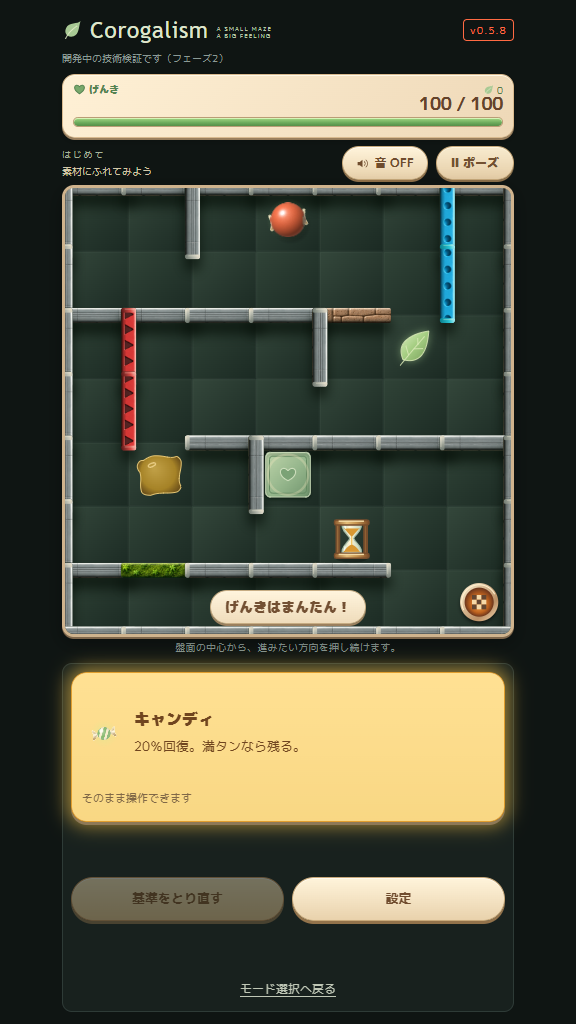
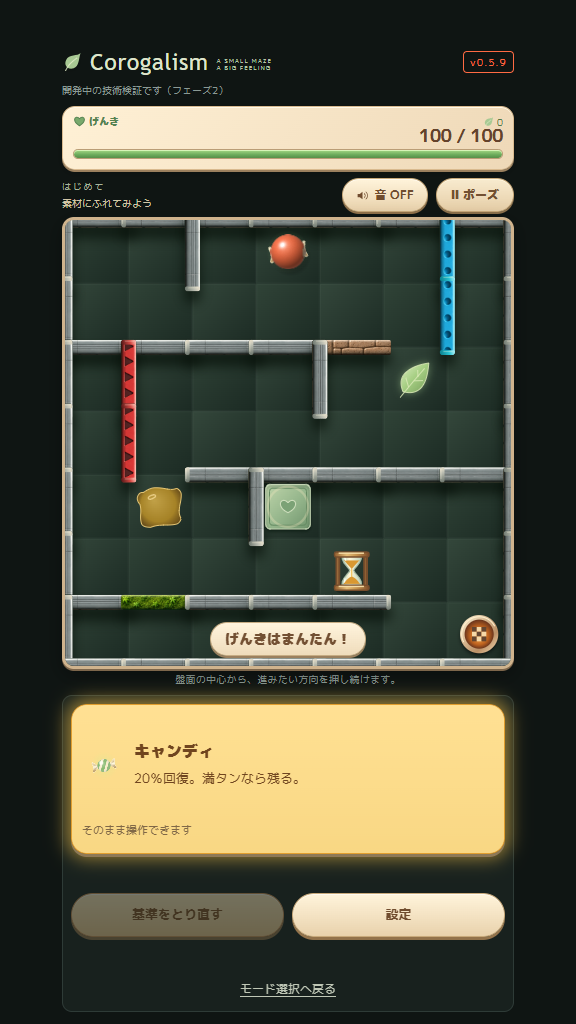
fix(T-256): reserve camera clearance in fullscreen

diff --git a/floor-lab.css b/floor-lab.css
@@ -2,3 +2,9 @@
 *{box-sizing:border-box}body{margin:0;background:#f5eedf;color:#44382c;font-family:Lab,system-ui,sans-serif}main{max-width:576px;margin:auto;padding:16px}header{display:flex;justify-content:space-between;gap:8px;font-size:12px}a{color:#38664e}h1{font-size:26px;margin:14px 0 4px}.intro,footer,.note{font-size:12px;line-height:1.7}nav,.buttons{display:flex;gap:6px;flex-wrap:wrap}button{font:inherit;font-size:13px;padding:10px 12px;min-height:42px;border:1px solid #b9aa90;border-radius:12px;background:#fffaf0;color:inherit;cursor:pointer}button[aria-pressed=true]{background:#395e4c;color:white;border-color:#395e4c}button:disabled{opacity:.45}button:focus-visible,a:focus-visible,input:focus-visible{outline:3px solid #3b897b;outline-offset:2px}#hint{font-size:13px;min-height:42px;line-height:1.6;margin:10px 0}.board{width:min(100%,56svh);margin:auto;aspect-ratio:1;border:7px solid #b18e68;border-radius:18px;overflow:hidden;background:#fff7e7;box-shadow:0 6px 0 #dbc7aa}canvas{display:block;width:100%;height:100%;touch-action:none}#status{font-size:12px;min-height:36px;line-height:1.5}.buttons{margin:9px 0}details{background:#fffbf4;border:1px solid #ddcfb9;border-radius:14px;padding:12px;margin-top:16px}summary{cursor:pointer;font-weight:bold}label{display:block;font-size:13px;margin-top:12px}output{float:right;font-variant-numeric:tabular-nums}input[type=range]{display:block;width:100%;accent-color:#47775f;margin:8px 0}textarea{width:100%;min-height:120px;font-size:12px}footer{margin-top:18px;color:#716553}#copy-status{font-size:12px}@media(prefers-reduced-motion:reduce){*{scroll-behavior:auto}}
 
 [hidden]{display:none!important}
+
+/* T-256: 本編と同じカメラ回避余白。全画面解除時は通常の余白へ戻る。 */
+:root{--camera-top:env(safe-area-inset-top,0px)}
+:root:fullscreen{--camera-top:max(32px,env(safe-area-inset-top,0px))}
+@media(display-mode:fullscreen){:root{--camera-top:max(32px,env(safe-area-inset-top,0px))}}
+main{padding-top:calc(16px + var(--camera-top));padding-left:calc(16px + env(safe-area-inset-left,0px));padding-right:calc(16px + env(safe-area-inset-right,0px));padding-bottom:calc(16px + env(safe-area-inset-bottom,0px))}

diff --git a/style.css b/style.css
@@ -26,7 +26,7 @@ h2{margin:0 0 4px;font-size:14px;font-weight:700;display:flex;align-items:center
 .badge{font-family:var(--mono);font-size:10px;letter-spacing:.12em;color:var(--accent);
   border:1px solid var(--accent);border-radius:4px;padding:2px 6px;white-space:nowrap}
 
-.board{position:relative;width:min(100%, max(200px, calc(100svh - 340px)));aspect-ratio:1/1;align-self:center;background:#0B100F;
+.board{position:relative;width:min(100%, max(calc(200px - var(--camera-top)), calc(100svh - 340px - var(--camera-top))));aspect-ratio:1/1;align-self:center;background:#0B100F;
   border:1px solid var(--line);border-radius:10px;overflow:hidden;touch-action:none;
   user-select:none;-webkit-user-select:none}
 .board canvas{display:block}
@@ -477,3 +477,12 @@ body[data-game-mode="tutorial"] #game-status{display:none}
 @media (prefers-reduced-motion: reduce){
  .tutorial-lesson.is-updated{border-color:#e79a19;box-shadow:0 3px #8e7957, inset 0 0 0 150px #ffd15a80}
 }
+
+/* T-256: 全画面では時計バー相当を予約。端末通知が大きければそちらを優先する。 */
+:root{--camera-top:env(safe-area-inset-top,0px)}
+:root:fullscreen{--camera-top:max(32px,env(safe-area-inset-top,0px))}
+@media(display-mode:fullscreen){:root{--camera-top:max(32px,env(safe-area-inset-top,0px))}}
+.wrap{padding-top:calc(14px + var(--camera-top));padding-left:calc(14px + env(safe-area-inset-left,0px));padding-right:calc(14px + env(safe-area-inset-right,0px))}
+.play-guide{top:var(--camera-top);bottom:env(safe-area-inset-bottom,0px);max-height:calc(100dvh - 28px - var(--camera-top) - env(safe-area-inset-bottom,0px))}
+
+@media(max-width:360px){.wrap{padding-left:calc(10px + env(safe-area-inset-left,0px));padding-right:calc(10px + env(safe-area-inset-right,0px))}}

diff --git a/floor-lab.html b/floor-lab.html
@@ -1,7 +1,7 @@
 <!doctype html>
 <html lang="ja">
 <head>
-  <meta charset="utf-8"><meta name="viewport" content="width=device-width,initial-scale=1">
+  <meta charset="utf-8"><meta name="viewport" content="width=device-width,initial-scale=1,viewport-fit=cover">
   <meta name="robots" content="noindex,nofollow">
   <link rel="manifest" href="manifest.webmanifest">
   <title>床のおためし | コロガリズム</title>

diff --git a/index.html b/index.html
@@ -23,7 +23,7 @@
         <span class="brand-word">Corogalism</span>
       </h1>
       <p class="brand-tagline">A SMALL MAZE<br>A BIG FEELING</p>
-      <span class="badge">v0.5.8</span>
+      <span class="badge">v0.5.9</span>
       </div>
       <p class="sub" id="dev-note">開発中の技術検証です（フェーズ2）</p>
     </div>

diff --git a/precache.js b/precache.js
@@ -1,4 +1,4 @@
-self.PRECACHE_VERSION = '87288f6f7af9c429';
+self.PRECACHE_VERSION = '7a8e3ab272fff64d';
 self.PRECACHE_FILES = [
   "assets/audio/bgm.wav",
   "assets/audio/rolling-loop.wav",

diff --git a/docs/portrait-lock.md b/docs/portrait-lock.md
@@ -20,3 +20,8 @@
 135テスト成功。browser-start-fullscreenで本編3入口・検証2入口×成功/拒否/非対応の15経路、ユーザー操作中の要求、センサー要求が先行、再要求なしを確認。browser-portraitの既存8経路も成功。実端末での成功はブラウザの許可に依存する。
 
 既存チュートリアルの仮想時計テストは、全画面切替のイベント処理のため開始クリック後に100ms進めてから開始状態を待つよう更新。実際の開始操作では全画面要求の結果を待たない。
+
+
+## T-256 / v0.5.9 インカメラを避ける余白
+
+本編と床検証ページの全画面表示では、通常の上余白に最低32pxを加える。safe-area-inset-topが32pxより大きい端末ではその値を使い、二重加算しない。通常表示に戻ると32pxの追加を解除する。通常ブラウザ・PWAでも端末のsafe-area通知は尊重する。検証ページにもviewport-fit=coverを指定し、左右と下のsafe-areaも確保。本編の盤面の高さ上限とガイドの高さは上余白を差し引く。実端末でのカメラとの位置関係はユーザー確認待ち。

diff --git a/docs/handoff-codex.md b/docs/handoff-codex.md
@@ -2,6 +2,8 @@
 
 ## 現在地
 
+- T-256 / v0.5.9: 全画面時にカメラ回避用の上余白を最低32px確保。端末safe-areaが大きければ優先。小画面の盤面も余白分縮小。
+
 - T-255 / v0.5.8: 最初の開始操作で全画面＋縦向き固定を要求。対応しなくても開始可能。解除後は自動再要求しない。
 
 - T-254 / v0.5.7: 本編・検証ページの縦向き固定をベストエフォートで追加。docs/portrait-lock.md参照。壁材配置ルールは変更なし。
